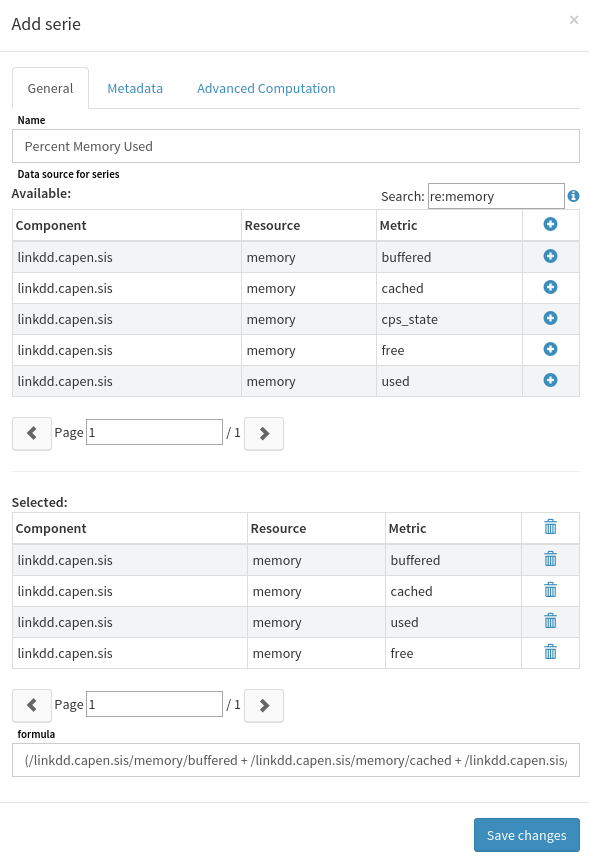
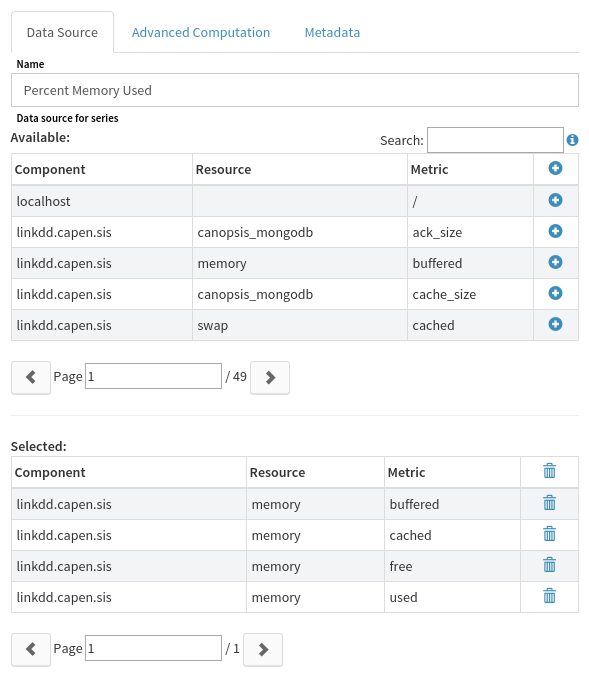
update: doc, webcore, and schema for new formula editor

diff --git a/doc/sakura/user-guide/UI/perfdata.rst b/doc/sakura/user-guide/UI/perfdata.rst
@@ -50,12 +50,19 @@ First, click on the *Create* button, a new form will appears:
 Detailed form:
 
  * **Name:** serie's name, will be used to labelize the serie on a chart ;
- * **Data source:** metrics that will be fetched to feed the serie ;
- * **formula**:
-    * mathematical formula that will be used to consolidate the fetched metrics in a single point ;
-    * each metric is identified by the following format : ``/<component>/<resource>/<metric>``.
+ * **Data source:** metrics that will be fetched to feed the serie.
 
 .. image:: ../../_static/images/uiv2/series/serieform1.png
+
+Detailed form:
+
+ * **aggregation method:** method used to aggregate metrics points ;
+ * **aggregation interval:** time interval between two aggregated points.
+ * **formula**:
+    * mathematical formula that will be used to consolidate the fetched metrics in a single point ;
+    * click on a metric in the list to add it in the formula.
+
+.. image:: ../../_static/images/uiv2/series/serieform2.png
 
 Detailed form:
 
@@ -64,13 +71,6 @@ Detailed form:
  * **warn:** warning threshold ;
  * **crit:** critical threshold ;
  * **unit:** serie's unit.
-
-.. image:: ../../_static/images/uiv2/series/serieform2.png
-
-Detailed form:
-
- * **aggregation method:** method used to aggregate metrics points ;
- * **aggregation interval:** time interval between two aggregated points.
 
 How to make a curve
 -------------------
